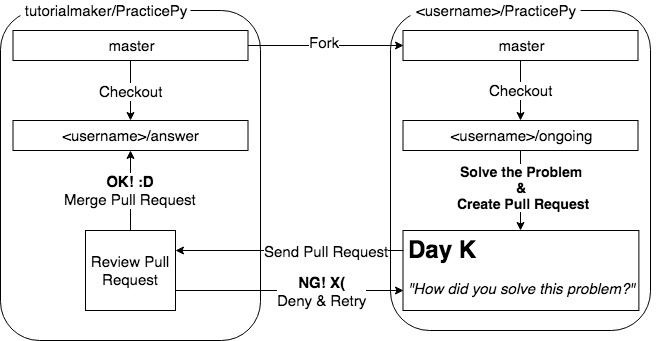
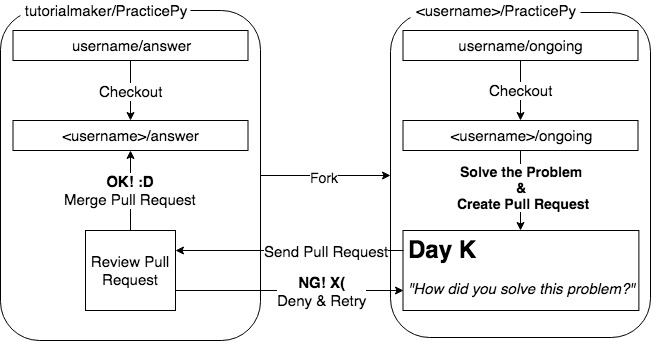
Update

diff --git a/weekly/week2.py b/weekly/week2.py
@@ -1,0 +1,44 @@
+from flask import Flask,abort
+app = Flask(__name__)
+
+"""
+-------------------------------------------------------
+
+    _この課題はDailyよりも比較的難易度の高い課題である。_
+    この課題はWeb系課題となる。Web系に強い関心がない場合、省略してもよい。
+
+    あなたが所属しているチームでは遊園地の入場システムのモック作成をしている。
+    遊園地に来場した客は大人、子供の人数情報を入力する。
+    入力されたデータはjson形式で/api/entrance_feeに送信される。
+
+    あなたの仕事は、/api/entrance_feeに送信されてきたjsonデータから、合計の入場料がいくらであるかを計算することである。
+    また、合計金額が複数存在しうる場合、一番安い料金を計算することとする。
+
+    送信されるjsonファイルは{"adults":int, "children":int}
+    の形式となる。
+
+    遊園地の料金情報:
+    入場料は一人当たり大人:5,800円、子供:3,600円である。
+    8名以上は団体扱いとなり、一人当たり10%の割引がある。
+    子供の人数が大人の人数の3倍以上である場合、世帯割として子供の入場料が20%割引される。これは団体の割引と同時に適用されない。
+    大人の人数が0名の時も上記の割引が適用されるものとする。
+
+    この課題ではPythonの標準ライブラリではなく、"Flask"と呼ばれる外部のライブラリを用いる。
+    pipについての知識があれば `pip install flask`でFlaskが導入できる。
+    pipについての知識がなければ、検索をすること。
+
+    Keyword: "Flask","JSON","HTTP"
+
+--------------------------------------------------------
+"""
+
+@app.route('/', methods=['GET'])
+def index():
+    return "This is API server."
+
+@app.route('/api/entrance_fee', methods=['POST'])
+def calculate():
+    abort(503)
+
+if __name__ == "__main__":
+    app.run()

diff --git a/daily/day4.py b/daily/day4.py
@@ -1,0 +1,34 @@
+import urllib.request
+import json
+
+
+def kanto_pokedex():
+    """
+
+    関数kanto_pokedexはAPI(https://pokeapi.co/api/v2/)を利用することにより,
+    ずかん番号1から151に対応するポケモンの情報を返す.
+
+    返り値
+    pokemons : List[Any]
+
+    """
+
+    url = "https://pokeapi.co/api/v2/pokedex/2"
+    req = urllib.request.Request(url, headers={"User-Agent": "dummy"})
+    try:
+        with urllib.request.urlopen(req) as f:
+            pokemons = json.loads(f.read().decode("utf-8"))["pokemon_entries"]
+        return pokemons
+    except URLError:
+        print("\nError: The requested URL could not be retrived. Are you connected to the Internet?\n")
+
+
+if __name__ == "__main__":
+    """
+
+    関数kanto_pokedexを用いて,
+    ずかん番号1から151に対応するポケモンの名称をリストpokemon_nameに格納せよ.
+
+    """
+
+    # print(pokemon_name)

diff --git a/README.md b/README.md
@@ -6,9 +6,11 @@ Harder, Better, Faster, Stronger
 
 1. 解答者は出題者に問題を解くこと、githubのアカウント名を<A href="mailto:info@tkm.blue">info@tkm.blue</a>に送信し、出題者はその解答者用PullRequestの送信先となるブランチを切る。
   - ブランチ名は"解答者のユーザ名/answer"とする。
+  - このとき、**username/answer**からブランチを切る。
 
 2. 解答者はtutorialmakerのリポジトリをフォークして、解答用ブランチを切る。
   - 解答用ブランチ名は"解答者のユーザ名/ongoing"とする。
+  - このとき、**username/ongoing**からブランチを切る。
 
 3. 解答者は解答用ブランチで解答して、レビュー済みブランチにプルリクエストを送る。プルリクエストのタイトルは解答した問題のタイトルとする。また、プルリクエストの内容に自分の解答の方針を書く。出題者はプルリクエストのコードにレビューをする。出題者から"Approve"が出た際、解答者は[ARTICLE_SAMPLE.md](https://github.com/tutorialmaker/PracticePy/blob/master/ARTICLE_SAMPLE.md)のように、[問題のURL](https://github.com/tutorialmaker/PracticePy/blob/master/daily/)と解説を掲載した記事を[PlayGround](https://playground-i.com/articles/new/)に投稿する(解答したコード自体は書かない)。"Request Changes"が出た際、解答者はプルリクエストを修正する。
 
